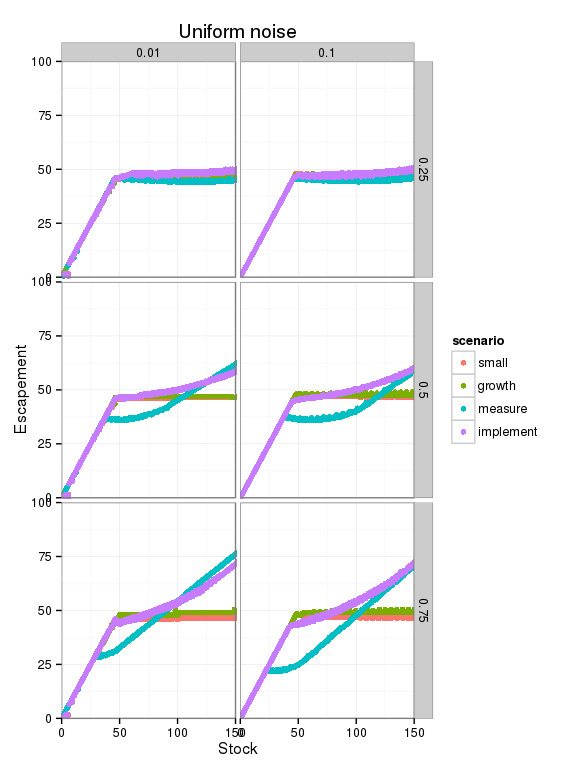
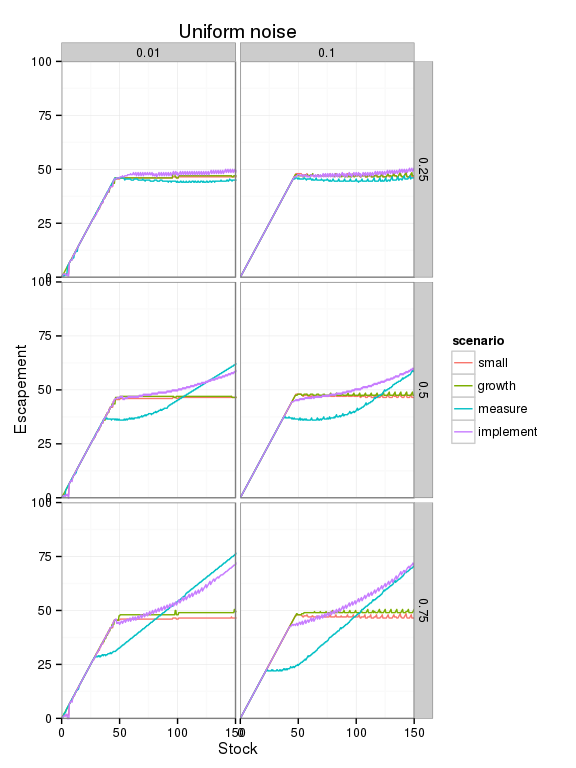
plots a bit cleaner with lines instead of points

diff --git a/inst/scripts/lognormal.md b/inst/scripts/lognormal.md
@@ -34,7 +34,7 @@ expand.grid(low = c(0.01, 0.1), high = c(0.25, 0.5, 0.75), noise_dist = c("logno
 ``` r
 df %>% filter(noise_dist == "lognormal") %>%
   ggplot(aes(x = y_grid, y = value, col = scenario)) + 
-    geom_point()  + 
+    geom_line()  + 
     facet_grid(high ~ low) + 
     xlab("Stock") + 
     ylab("Escapement") + 
@@ -48,7 +48,7 @@ df %>% filter(noise_dist == "lognormal") %>%
 ``` r
 df %>% filter(noise_dist == "uniform") %>%
   ggplot(aes(x = y_grid, y = value, col = scenario)) + 
-    geom_point()  + 
+    geom_line()  + 
     facet_grid(high ~ low) + 
     xlab("Stock") + 
     ylab("Escapement") + 
